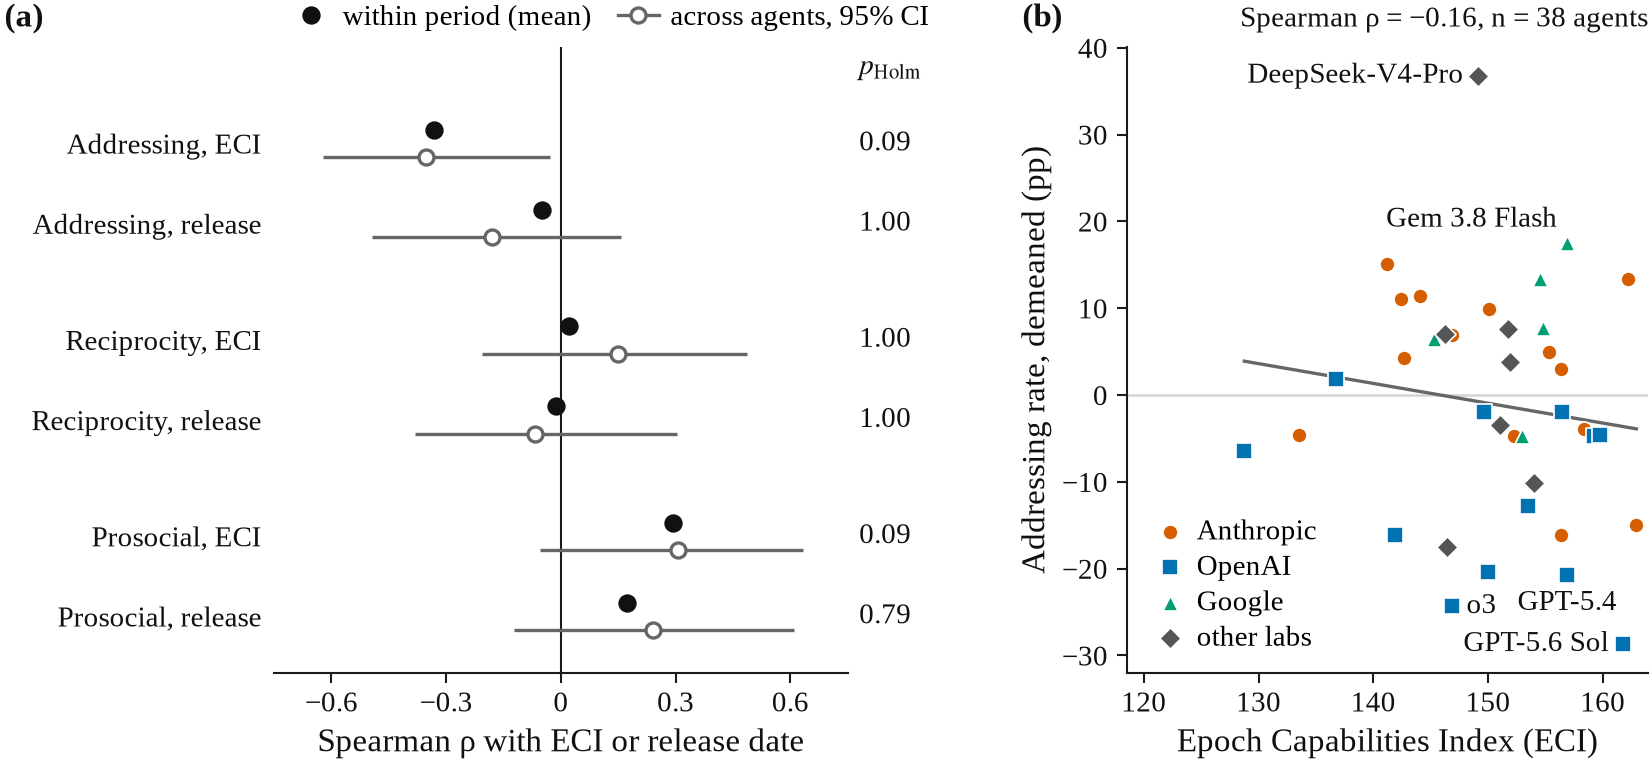
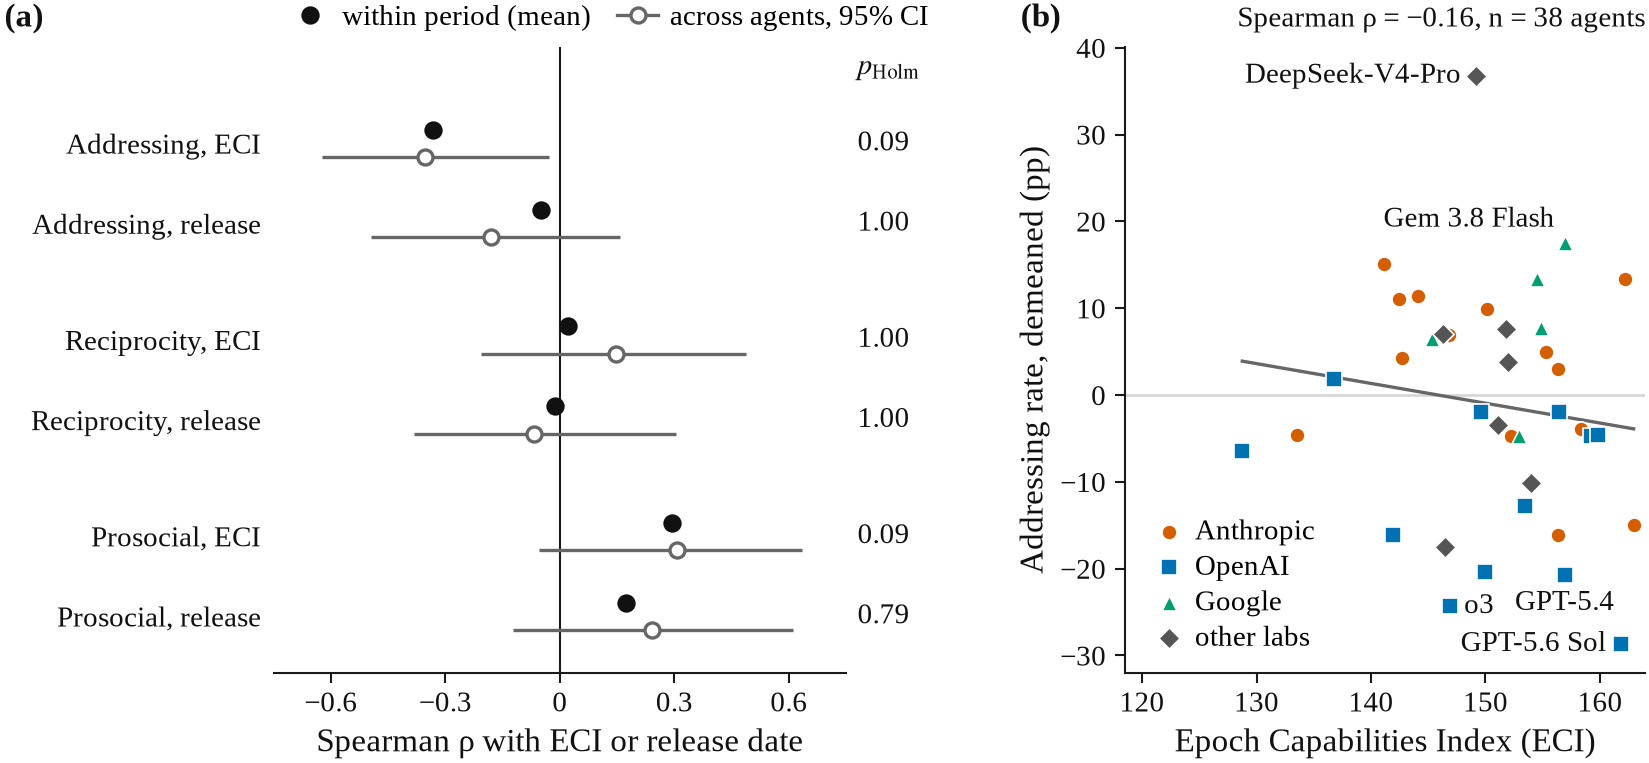
paperfig: keep the tight crop but narrow the figure to fit its width
The exact-figsize save clipped the scaling figure's '(a)' label, which sits
outside constrained layout. save() now keeps savefig.bbox=tight and first
narrows the figure until the tight crop, measured at every output dpi
(72 for PDF, 300 for PNG; text extents differ), fits the requested width.
The scaling figure is re-rendered (--plot-only after a full run whose
numbers match REPORT.md): 395.7 pt / 1649 px wide, was 396.2 pt / 1652 px.

Claude-Session: https://claude.ai/code/session_01TxEvoVXF1JUpJwLpBP6GNw

diff --git a/village_tools/paperfig.py b/village_tools/paperfig.py
@@ -5,8 +5,10 @@ The rcParams replicate ``tueplots.bundles.neurips2024(usetex=False, family="seri
 layout) with tueplots' 0.5 pt axes, and the font sizes clamped so no figure text is
 below 7 pt at print size. Text is Times New Roman or Times when installed, else the
 metric-compatible Liberation Serif (or the next of ``SERIF``); ``use()`` logs that
-fallback once. Figures are saved at exactly their figsize (no tight bbox, which grew
-some past the text width), so a ``size(1.0)`` figure is 5.5 in = 396 pt wide. Colours are not defined here: they are read from the shared
+fallback once. Figures are saved with a tight bbox, but ``save()`` first narrows a figure
+whose tight crop would be wider than its figsize (text placed outside the layout, such as
+a panel letter left of the tick labels), so a ``size(1.0)`` figure is never wider than the
+5.5 in = 396 pt text width. Colours are not defined here: they are read from the shared
 HTML tokens in ``swarm_mcp/src/swarm_mcp/scope/viz/assets/paper.css``, so a static figure
 and an interactive page always agree on what each colour means.
 
@@ -93,7 +95,7 @@ def rc() -> dict:
         "figure.figsize": (TEXT_WIDTH_IN, TEXT_WIDTH_IN * GOLDEN),
         "figure.constrained_layout.use": True,
         "figure.autolayout": False,
-        "savefig.bbox": "standard",   # exact figsize: tight bbox made 5.5 in figures up to 5.51 in
+        "savefig.bbox": "tight",      # save() narrows the figure first so the tight crop is never wider than it
         "savefig.pad_inches": 0.015,
         "figure.dpi": 150,
         "savefig.dpi": 300,
@@ -185,8 +187,41 @@ def size(rel_width: float = 1.0, aspect: float = GOLDEN, *, height_in: float | N
     return (w, height_in if height_in is not None else w * aspect)
 
 
+def _tight_width(fig, dpi: float) -> float:
+    """Width in inches of fig's tight bbox when drawn at `dpi` (text extents, and so the bbox, vary with dpi)."""
+    old = fig.dpi
+    fig.set_dpi(dpi)
+    try:
+        fig.canvas.draw()
+        return fig.get_tightbbox(fig.canvas.get_renderer()).width
+    finally:
+        fig.set_dpi(old)
+
+
+def fit_width(fig, max_w: float | None = None, dpis: tuple[float, ...] = (72, 300), tries: int = 6) -> None:
+    """Narrow `fig` until its tight bbox plus padding, at every output dpi (72 = PDF), is at most max_w inches
+    (default: its current width).
+
+    A tight bbox grows past the figsize when text sits outside constrained layout; this keeps the saved
+    figure within the width the caller asked for (size(1.0) = the 5.5 in text width)."""
+    import matplotlib as mpl
+
+    max_w = fig.get_figwidth() if max_w is None else max_w
+    pad = 2 * mpl.rcParams["savefig.pad_inches"]
+    for _ in range(tries):
+        w = max(_tight_width(fig, d) for d in dpis) + pad
+        if w <= max_w:
+            return
+        fig.set_figwidth(fig.get_figwidth() - (w - max_w) - 0.002)
+    log.warning("paperfig: could not fit the figure in %.2f in", max_w)
+
+
 def save(fig, stem: Path | str, *, formats: tuple[str, ...] = ("pdf", "png"), dpi: int = 300) -> list[Path]:
-    """Write stem.pdf (vector) and stem.png (300 dpi) at exactly the figure's size; returns the paths written."""
+    """Write stem.pdf (vector) and stem.png (300 dpi), never wider than the figure's width; returns the paths."""
+    import matplotlib as mpl
+
+    if mpl.rcParams["savefig.bbox"] == "tight":
+        fit_width(fig, dpis=tuple({72 if f == "pdf" else dpi for f in formats}))
     stem = Path(stem)
     stem.parent.mkdir(parents=True, exist_ok=True)
     out = []
